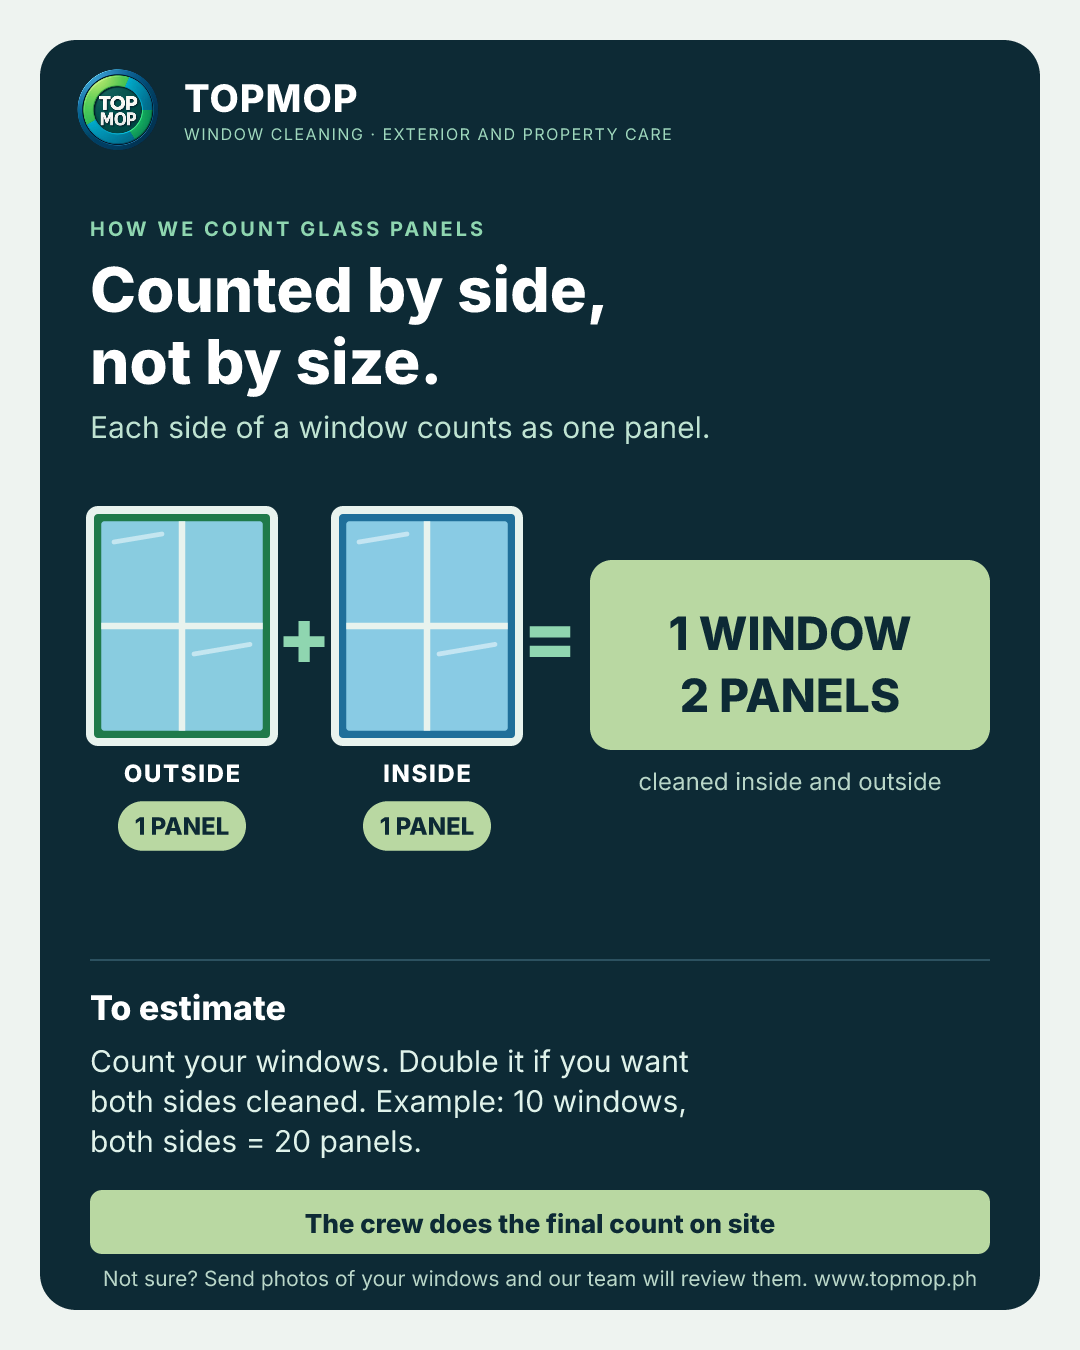
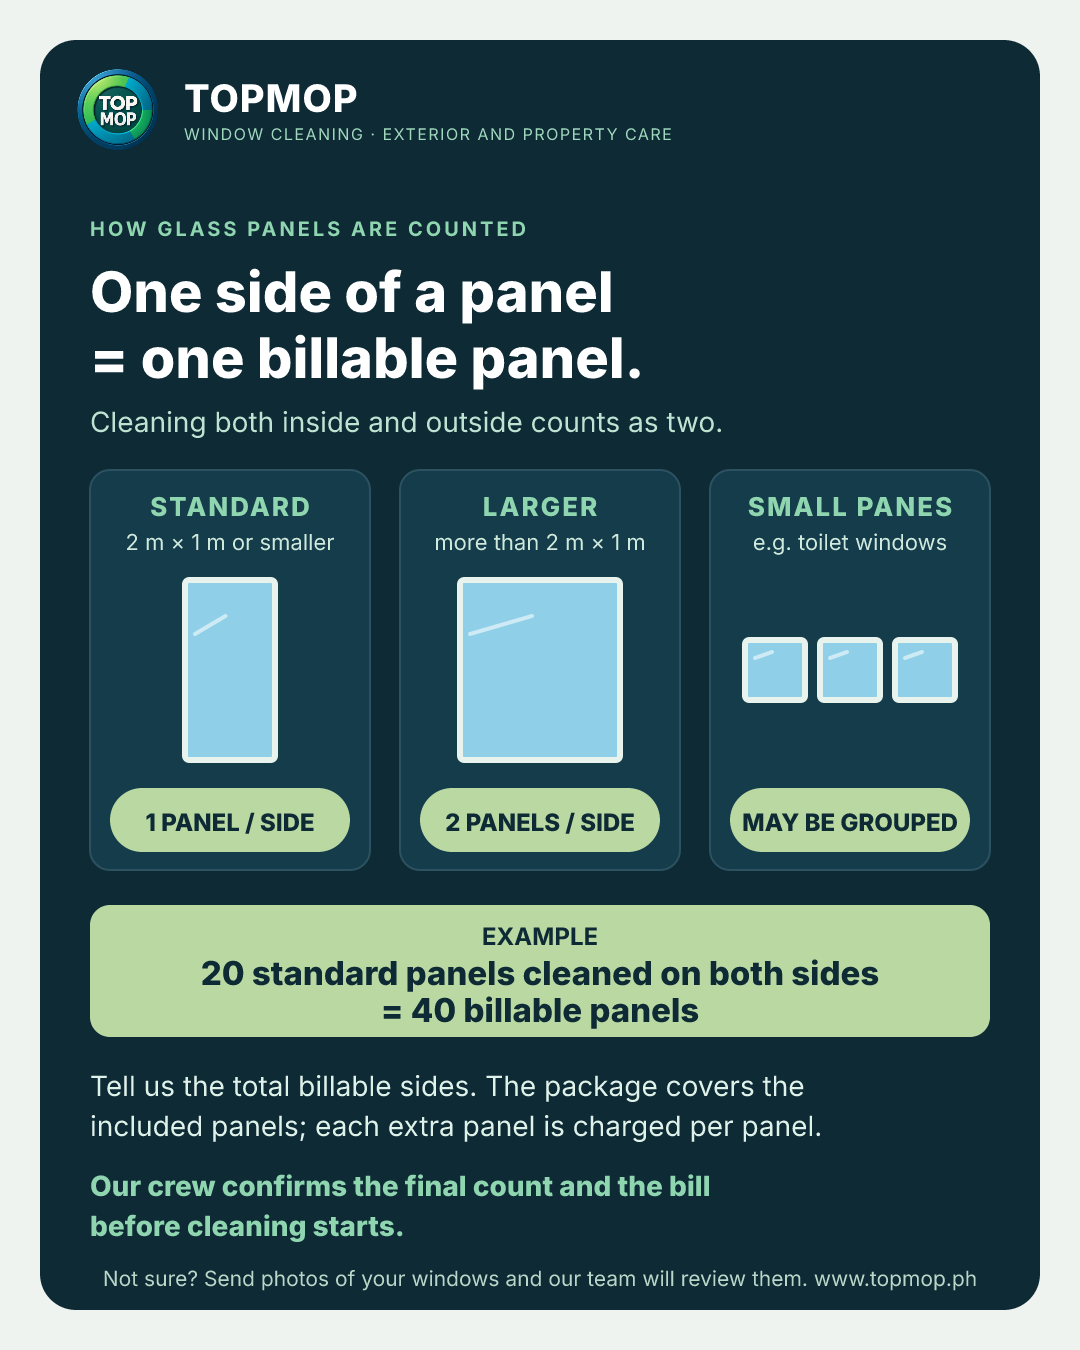
Panel counting: official rule is per side up to 2 m x 1 m, both sides double, larger = 2 per side, small panes may be grouped; AI rule, picture and rulebook section updated
Claude-Session: https://claude.ai/code/session_019gdfWxtZz26cAqX2jFe2bM

diff --git a/supabase/functions/_shared/brain.ts b/supabase/functions/_shared/brain.ts
@@ -23,7 +23,7 @@ export function buildSystem(a: { sections: Section[]; version: number | null; la
   return `You are TopMop's customer service assistant on Messenger, Instagram and WhatsApp. You follow the RULEBOOK below. Do not bring up that you are an AI or a bot, and do not introduce yourself as one: greet as TopMop customer service. Never claim to be a human, never invent a personal name or a life story; if the customer sincerely asks whether you are a person or a bot, answer honestly that you are TopMop's automated assistant and offer a team member.
 
 How to work:
-- PANEL COUNT: a glass panel is counted by SIDE, never by size. Each side of a window is one panel, so a window cleaned inside and outside is two panels. There is no 2 m x 1 m rule, no "oversized panel" and no "small windows combined" rule: never say or imply one. To estimate, the customer counts the windows and doubles the number if both sides are cleaned; the crew does the final count on site; if they are unsure, they can send photos of their windows for the team to review. When they ask how panels are counted, explain this in your own words and ask roughly how many windows the property has.
+- PANEL COUNT (billable panels): one side of a glass or window panel up to 2 m x 1 m counts as one billable panel; cleaning both the inside and the outside counts as two (20 standard panels cleaned on both sides = 40 billable panels). A larger panel (over 2 m x 1 m) counts as two per side; small panes (for example toilet windows) may be grouped. The customer gives the total billable sides; the package covers the included panels and each extra is charged at the rate the estimate tool returns. The crew confirms the final count and the bill before cleaning starts. If the customer is unsure, they can send photos of their windows for the team to review. When asked how panels are counted, explain this in your own words, give the 20-to-40 example, and ask roughly how many windows or panels the property has. Never invent other size limits.
 - GREETING: when this is the first message of the conversation (you have not replied yet), start your reply with exactly: "${firstName(a.customerName) ? `Hi Mam/Sir ${firstName(a.customerName)}!` : 'Hi Mam/Sir!'} Thanks for messaging TopMop. How can we help?" (if the customer already asked something, answer it right after that greeting in the same message, and leave out "How can we help?"). Greet only once; in later replies do not greet again.
 - Reply in the language of the customer: ${a.lang === 'taglish' ? 'Taglish (natural mix of Filipino and English with "po")' : a.lang === 'tl' ? 'Filipino with "po"' : 'match the customer (English, Filipino or Taglish)'}. Short paragraphs, one question at a time, no markdown, few emojis.
 - NEVER write a price, discount, availability or booking status from memory. Use the tools: estimate for every price, check_date for every date, book_date to book. Quote only what the tools returned, and keep their wording about estimates ("the crew does the final count on site").

diff --git a/src/lib/brain.test.ts b/src/lib/brain.test.ts
@@ -84,8 +84,8 @@ describe('no blank drafts', () => {
 });
 
 describe('panel counting rule', () => {
-  it('teaches counting by side, not by size', () => {
+  it('teaches the billable-panel rule: 2 m x 1 m per side, both sides double, larger = 2 per side', () => {
     const s = buildSystem({ sections: [], version: null, lang: 'en' });
-    expect(s).toMatch(/counted by SIDE, never by size/); expect(s).toMatch(/inside and outside is two panels/); expect(s).toMatch(/no 2 m x 1 m rule/);
+    expect(s).toMatch(/up to 2 m x 1 m counts as one billable panel/); expect(s).toMatch(/inside and the outside counts as two/); expect(s).toMatch(/over 2 m x 1 m\) counts as two per side/); expect(s).toMatch(/20 standard panels cleaned on both sides = 40 billable panels/); expect(s).toMatch(/crew confirms the final count/);
   });
 });
